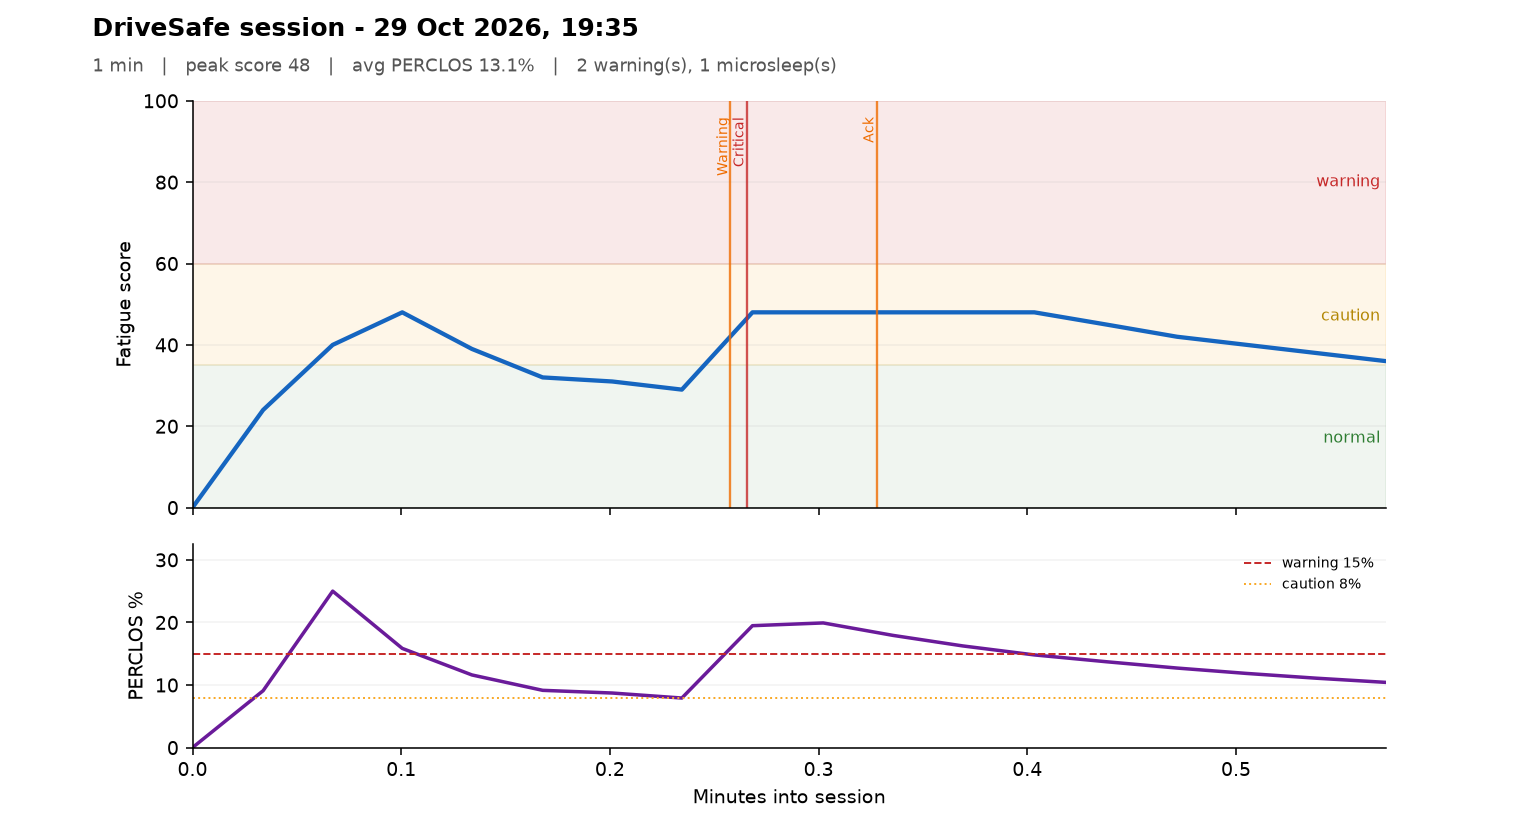
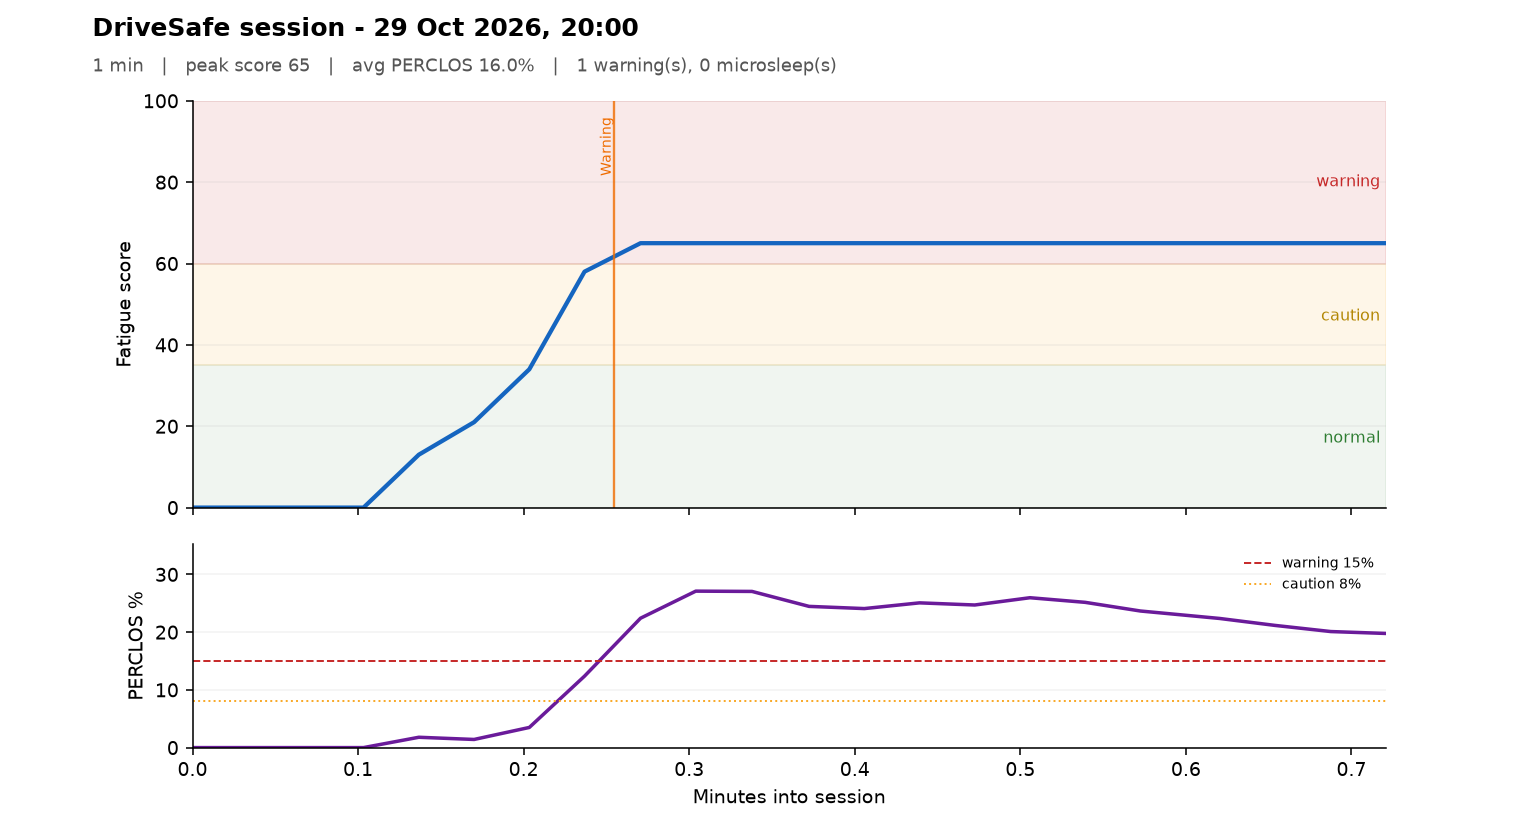
README: add a Future work section
Captures the deployment questions the project deliberately does not solve -
adaptive baseline, driver identity, tamper detection, hardware alerts, IR -
so the scope stays small and the reasoning is not lost.

diff --git a/README.md b/README.md
@@ -189,6 +189,26 @@ tests/            logic tests, no camera required
   it is good for relative change, not absolute angles.
 - This is an assistive tool. It does not transfer responsibility away from the driver.
 
+## Future work
+
+Deliberately not built, so the project stays small and stays pure OpenCV —
+but these are the next things a real deployment would need:
+
+- **Adaptive baseline.** A one-time calibration drifts over a long shift as
+  light and posture change. The fix is to keep updating the open-eye baseline,
+  but only from frames the system already judges alert — otherwise it adapts to
+  the drowsiness it is meant to catch.
+- **Driver identity.** Thresholds are per person, but nothing checks who is in
+  front of the camera. A shift-start card or login is the right answer here, not
+  face recognition: the system needs a profile, not an identity.
+- **Tamper detection.** A photo taped over the lens never blinks, so PERCLOS
+  stays at zero and the system reports calm forever. Two minutes with no blink
+  and no pixel movement is not a calm driver — it is a defeated sensor.
+- **Hardware alerts.** Seat or steering-wheel vibration through the CAN bus
+  wakes a driver far more reliably than sound.
+- **IR camera.** A plain webcam is unreliable at night, which is when fatigue
+  peaks.
+
 ## Privacy
 
 No video and no images are written to disk. The database stores timestamps,
